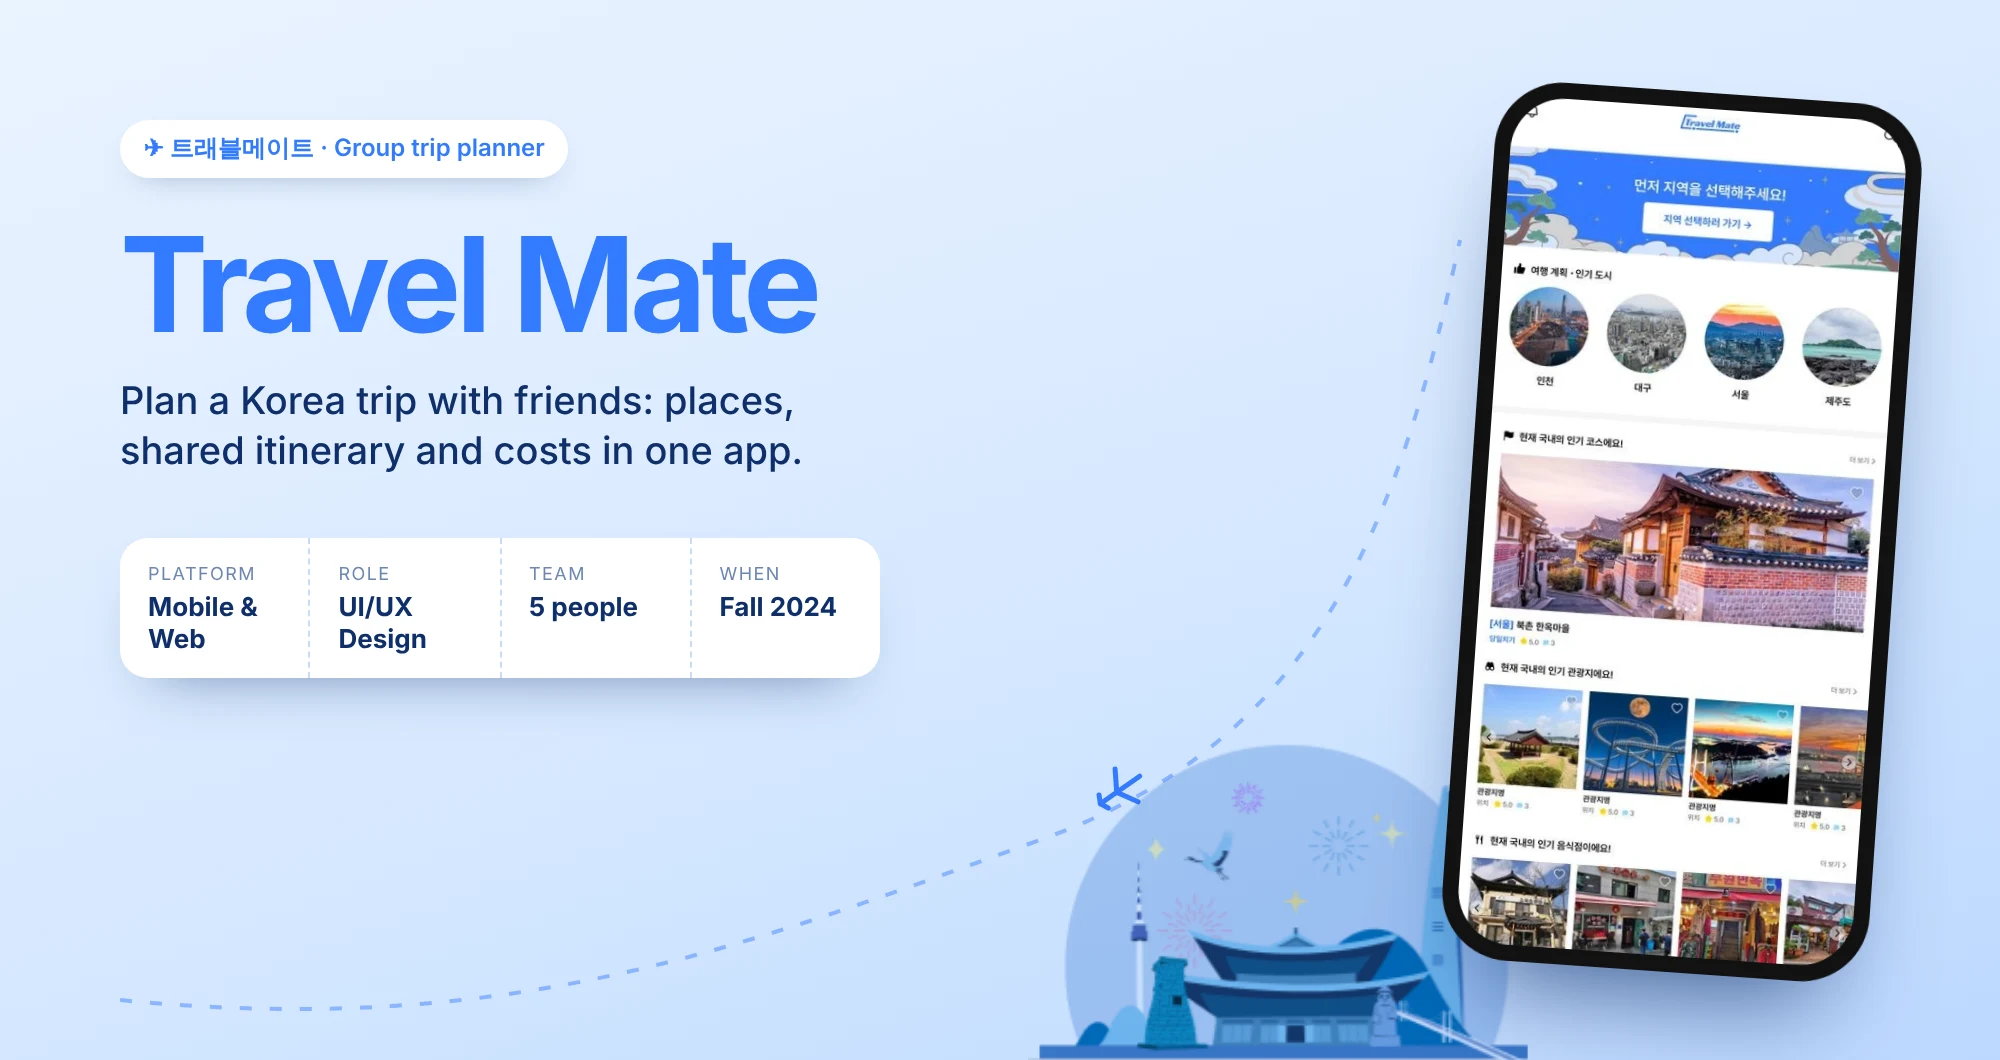
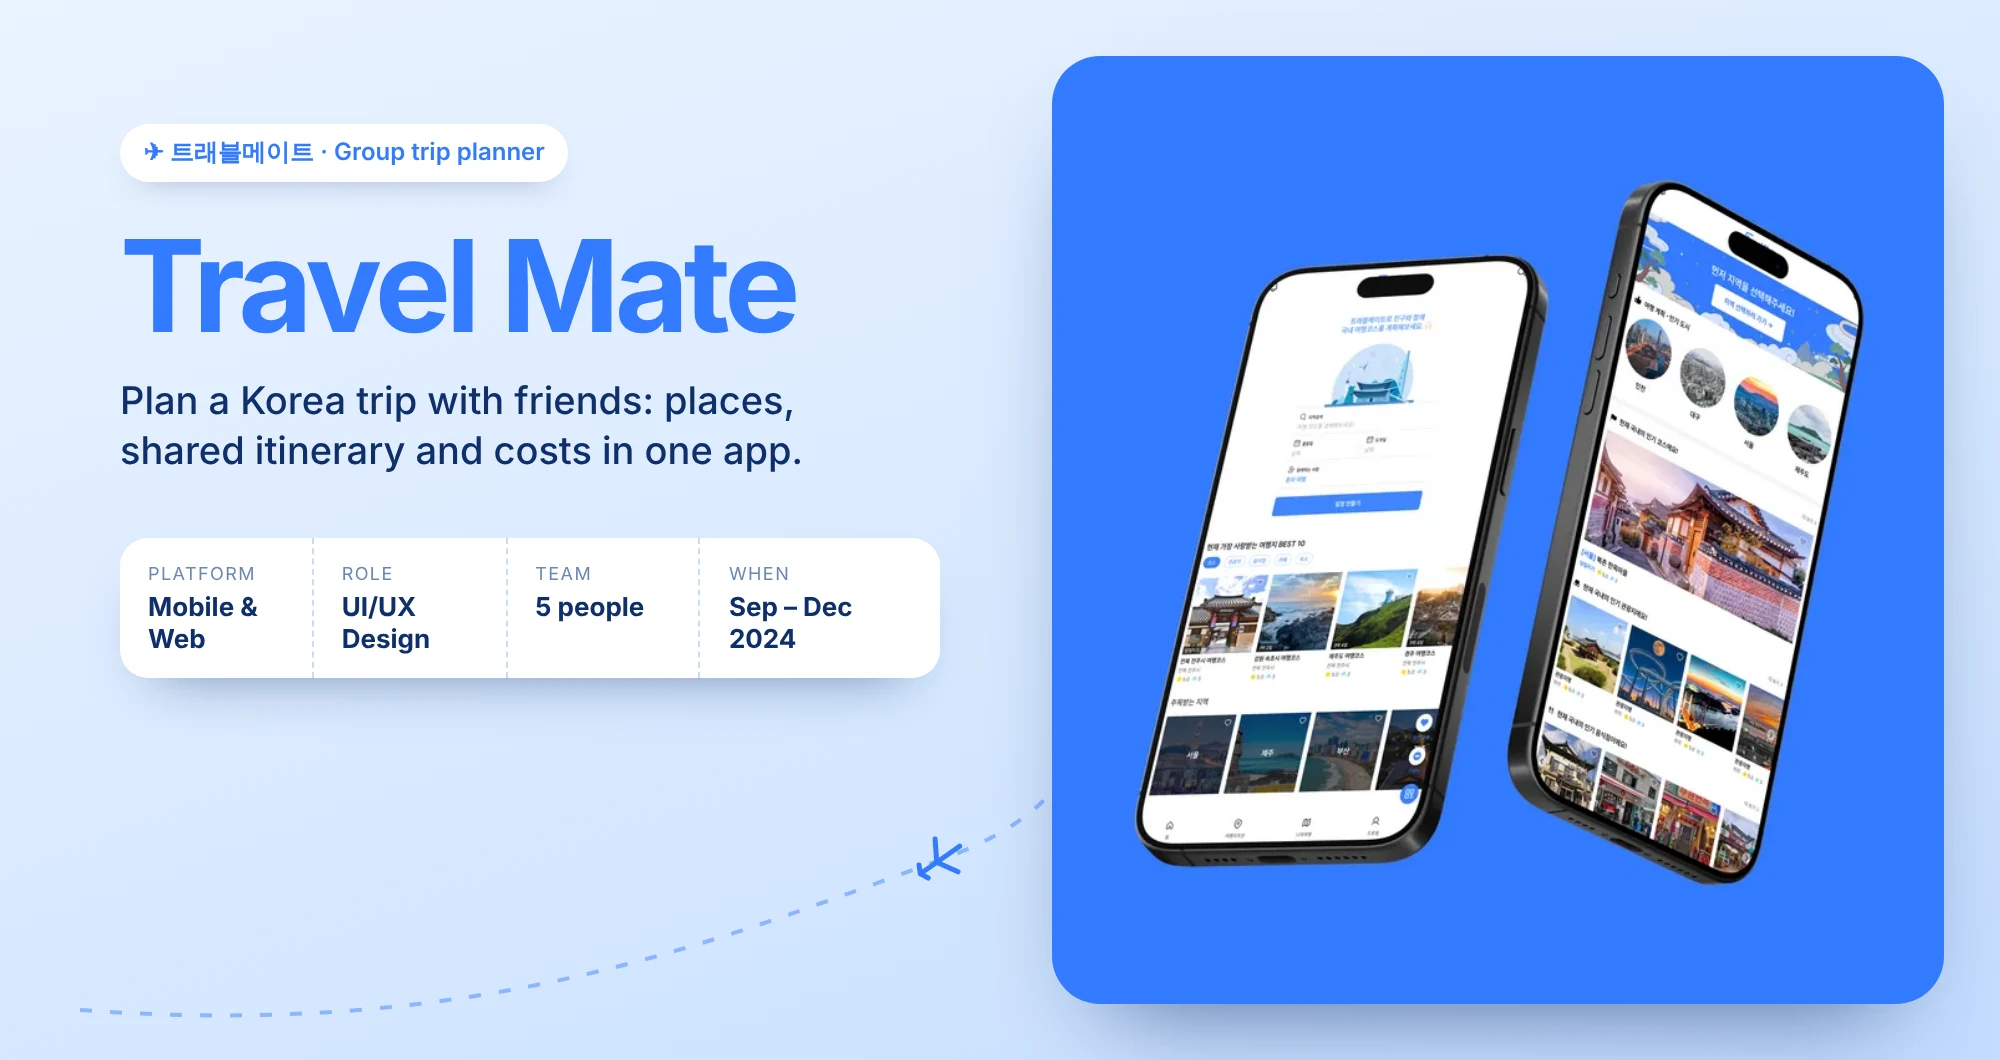
Travel Mate cover keeps original mockup; Trendy dates; Now Institute thumbnail restored
- Travel Mate cover: original two-phone mockup on its blue panel beside the
  Korea-trip text, with the full Sep – Dec 2024 dates.
- Trendy: Jun – Aug 2024 on the case study, UX page and cover image
  ("2024.06 – 2024.08" replacing the open-ended "2024.06.01-").
- Now Institute: back to the original Noto Now screenshot thumbnail.

Claude-Session: https://claude.ai/code/session_01XrSCNk8CdZFL88DQkgrBgR

diff --git a/ux.html b/ux.html
@@ -27,7 +27,7 @@
 <main class="page page-page" id="ux">
 <div class="page-content">
 <header class="cs-head"><h1 class="cs-title">UX Design<span class="dot">.</span></h1><p class="cs-sub">Case studies in research, product design and building, from internships, leadership roles and team projects.</p></header>
-<div class="gproj-list gproj-list--stack"><a class="gproj" href="now-institute.html"><div class="gproj-cover gproj-cover--bleed" style="aspect-ratio:2000/1060"><img alt="Now Institute cover" loading="lazy" onerror="this.hidden=true" src="images/index/cover-now-institute.webp?v=2"/></div><div class="gproj-txt"><span class="gproj-n">(01)</span><h2 class="gproj-t">Now Institute</h2><p class="gproj-sub">Two websites for Morphosis Architects’ urban research wing</p><p class="gproj-d">Designed and vibe-coded Noto Now and the Now Institute site, from research on every project to two live launches.</p><dl class="gproj-meta"><dt>Year</dt><dd>May – Jul 2026</dd><dt>Role</dt><dd>UX Design Intern, Morphosis</dd><dt>Tools</dt><dd>Figma, Claude Code, Vercel</dd></dl><div class="gproj-strip" style="grid-template-columns:178.97fr 177.78fr 166.67fr"><img alt="" loading="lazy" src="images/now-institute/03-screenshot-1778536857657.png" style="aspect-ratio:1.7897"/><img alt="" loading="lazy" src="images/now-institute/02-screenshot-2026-07-13-at-3.52.46pm.webp" style="aspect-ratio:1.7778"/><img alt="" loading="lazy" src="images/now-institute/04-notonow.png" style="aspect-ratio:1.6667"/></div><span class="gproj-go">View case study →</span></div></a><a class="gproj" href="hfes-stg.html"><div class="gproj-cover gproj-cover--bleed" style="aspect-ratio:2000/1000"><img alt="HFES STG cover" loading="lazy" onerror="this.hidden=true" src="images/index/cover-hfes-stg.webp"/></div><div class="gproj-txt"><span class="gproj-n">(02)</span><h2 class="gproj-t">HFES STG</h2><p class="gproj-sub">A website for the Sustainability Technical Group</p><p class="gproj-d">Led a volunteer team from a 200+ member survey through card sorting, testing and launch.</p><dl class="gproj-meta"><dt>Year</dt><dd>Aug 2025 – May 2026</dd><dt>Role</dt><dd>Website Lead</dd><dt>Methods</dt><dd>Survey, card sort, usability tests</dd></dl><div class="gproj-strip" style="grid-template-columns:196.46fr 133.78fr"><img alt="" loading="lazy" src="images/hfes-stg/04-screenshot-2026-03-27-at-3.34.46pm.png" style="aspect-ratio:1.9646"/><img alt="" loading="lazy" src="images/hfes-stg/06-wireframes.png" style="aspect-ratio:1.3378"/></div><span class="gproj-go">View case study →</span></div></a><a class="gproj" href="migrant-compass.html"><div class="gproj-cover gproj-cover--bleed" style="aspect-ratio:1920/940"><img alt="Migrant Compass cover" loading="lazy" onerror="this.hidden=true" src="images/index/05-title-page1.webp"/></div><div class="gproj-txt"><span class="gproj-n">(03)</span><h2 class="gproj-t">Migrant Compass</h2><p class="gproj-sub">Real-time guidance for migrants</p><p class="gproj-d">An offline-ready app giving migrants verified safety updates and resources, built at the IDEA Lab @ Fletcher.</p><dl class="gproj-meta"><dt>Year</dt><dd>Sep – Nov 2025</dd><dt>Role</dt><dd>UX research & design</dd><dt>Tools</dt><dd>Figma</dd></dl><div class="gproj-strip" style="grid-template-columns:50.96fr 51.02fr 51.02fr 45.40fr"><img alt="" loading="lazy" src="images/migrant-compass/06-migrant-compass-mobile-app-wireframe.png" style="aspect-ratio:0.5096"/><img alt="" loading="lazy" src="images/migrant-compass/15-migrant-compass-mobile-app-wireframe.png" style="aspect-ratio:0.5102"/><img alt="" loading="lazy" src="images/migrant-compass/19-w.png" style="aspect-ratio:0.5102"/><img alt="" loading="lazy" src="images/migrant-compass/21-4.png" style="aspect-ratio:0.4540"/></div><span class="gproj-go">View case study →</span></div></a><a class="gproj" href="travel-mate.html"><div class="gproj-cover gproj-cover--bleed" style="aspect-ratio:2000/1060"><img alt="Travel Mate cover" loading="lazy" onerror="this.hidden=true" src="images/index/cover-travel-mate.webp?v=2"/></div><div class="gproj-txt"><span class="gproj-n">(04)</span><h2 class="gproj-t">Travel Mate</h2><p class="gproj-sub">Group travel planning app</p><p class="gproj-d">Search, shared itineraries and expenses for planning a Korea trip with friends, designed with developers.</p><dl class="gproj-meta"><dt>Year</dt><dd>Sep – Dec 2024</dd><dt>Role</dt><dd>UX design, design system</dd><dt>Team</dt><dd>3 designers, 2 developers</dd></dl><div class="gproj-strip" style="grid-template-columns:83.95fr 78.85fr 134.05fr"><img alt="" loading="lazy" src="images/travel-mate/08-ia.png" style="aspect-ratio:0.8395"/><img alt="" loading="lazy" src="images/travel-mate/31-sheet-stay-dates.webp" style="aspect-ratio:0.7885"/><img alt="" loading="lazy" src="images/travel-mate/32-sheet-trip-dates.webp" style="aspect-ratio:1.3405"/></div><span class="gproj-go">View case study →</span></div></a><a class="gproj" href="trendy.html"><div class="gproj-cover gproj-cover--bleed" style="aspect-ratio:1500/734"><img alt="Trendy cover" loading="lazy" onerror="this.hidden=true" src="images/trendy/01-trendy.webp"/></div><div class="gproj-txt"><span class="gproj-n">(05)</span><h2 class="gproj-t">Trendy</h2><p class="gproj-sub">Beauty & fashion trend app</p><p class="gproj-d">A solo project taking a trend-shopping app from interviews and competitor research to brand and UI.</p><dl class="gproj-meta"><dt>Year</dt><dd>Aug 2024</dd><dt>Role</dt><dd>Solo designer</dd><dt>Methods</dt><dd>Interviews, journey map</dd></dl><div class="gproj-strip" style="grid-template-columns:235.78fr 167.52fr"><img alt="" loading="lazy" src="images/trendy/05-persona.webp" style="aspect-ratio:2.3578"/><img alt="" loading="lazy" src="images/trendy/10-final-screens.webp" style="aspect-ratio:1.6752"/></div><span class="gproj-go">View case study →</span></div></a></div>
+<div class="gproj-list gproj-list--stack"><a class="gproj" href="now-institute.html"><div class="gproj-cover gproj-cover--bleed" style="aspect-ratio:2000/1060"><img alt="Now Institute cover" loading="lazy" onerror="this.hidden=true" src="images/index/01-screenshot-2026-07-07-at-2.21.54pm.webp"/></div><div class="gproj-txt"><span class="gproj-n">(01)</span><h2 class="gproj-t">Now Institute</h2><p class="gproj-sub">Two websites for Morphosis Architects’ urban research wing</p><p class="gproj-d">Designed and vibe-coded Noto Now and the Now Institute site, from research on every project to two live launches.</p><dl class="gproj-meta"><dt>Year</dt><dd>May – Jul 2026</dd><dt>Role</dt><dd>UX Design Intern, Morphosis</dd><dt>Tools</dt><dd>Figma, Claude Code, Vercel</dd></dl><div class="gproj-strip" style="grid-template-columns:178.97fr 177.78fr 166.67fr"><img alt="" loading="lazy" src="images/now-institute/03-screenshot-1778536857657.png" style="aspect-ratio:1.7897"/><img alt="" loading="lazy" src="images/now-institute/02-screenshot-2026-07-13-at-3.52.46pm.webp" style="aspect-ratio:1.7778"/><img alt="" loading="lazy" src="images/now-institute/04-notonow.png" style="aspect-ratio:1.6667"/></div><span class="gproj-go">View case study →</span></div></a><a class="gproj" href="hfes-stg.html"><div class="gproj-cover gproj-cover--bleed" style="aspect-ratio:2000/1000"><img alt="HFES STG cover" loading="lazy" onerror="this.hidden=true" src="images/index/cover-hfes-stg.webp"/></div><div class="gproj-txt"><span class="gproj-n">(02)</span><h2 class="gproj-t">HFES STG</h2><p class="gproj-sub">A website for the Sustainability Technical Group</p><p class="gproj-d">Led a volunteer team from a 200+ member survey through card sorting, testing and launch.</p><dl class="gproj-meta"><dt>Year</dt><dd>Aug 2025 – May 2026</dd><dt>Role</dt><dd>Website Lead</dd><dt>Methods</dt><dd>Survey, card sort, usability tests</dd></dl><div class="gproj-strip" style="grid-template-columns:196.46fr 133.78fr"><img alt="" loading="lazy" src="images/hfes-stg/04-screenshot-2026-03-27-at-3.34.46pm.png" style="aspect-ratio:1.9646"/><img alt="" loading="lazy" src="images/hfes-stg/06-wireframes.png" style="aspect-ratio:1.3378"/></div><span class="gproj-go">View case study →</span></div></a><a class="gproj" href="migrant-compass.html"><div class="gproj-cover gproj-cover--bleed" style="aspect-ratio:1920/940"><img alt="Migrant Compass cover" loading="lazy" onerror="this.hidden=true" src="images/index/05-title-page1.webp"/></div><div class="gproj-txt"><span class="gproj-n">(03)</span><h2 class="gproj-t">Migrant Compass</h2><p class="gproj-sub">Real-time guidance for migrants</p><p class="gproj-d">An offline-ready app giving migrants verified safety updates and resources, built at the IDEA Lab @ Fletcher.</p><dl class="gproj-meta"><dt>Year</dt><dd>Sep – Nov 2025</dd><dt>Role</dt><dd>UX research & design</dd><dt>Tools</dt><dd>Figma</dd></dl><div class="gproj-strip" style="grid-template-columns:50.96fr 51.02fr 51.02fr 45.40fr"><img alt="" loading="lazy" src="images/migrant-compass/06-migrant-compass-mobile-app-wireframe.png" style="aspect-ratio:0.5096"/><img alt="" loading="lazy" src="images/migrant-compass/15-migrant-compass-mobile-app-wireframe.png" style="aspect-ratio:0.5102"/><img alt="" loading="lazy" src="images/migrant-compass/19-w.png" style="aspect-ratio:0.5102"/><img alt="" loading="lazy" src="images/migrant-compass/21-4.png" style="aspect-ratio:0.4540"/></div><span class="gproj-go">View case study →</span></div></a><a class="gproj" href="travel-mate.html"><div class="gproj-cover gproj-cover--bleed" style="aspect-ratio:2000/1060"><img alt="Travel Mate cover" loading="lazy" onerror="this.hidden=true" src="images/index/cover-travel-mate.webp?v=3"/></div><div class="gproj-txt"><span class="gproj-n">(04)</span><h2 class="gproj-t">Travel Mate</h2><p class="gproj-sub">Group travel planning app</p><p class="gproj-d">Search, shared itineraries and expenses for planning a Korea trip with friends, designed with developers.</p><dl class="gproj-meta"><dt>Year</dt><dd>Sep – Dec 2024</dd><dt>Role</dt><dd>UX design, design system</dd><dt>Team</dt><dd>3 designers, 2 developers</dd></dl><div class="gproj-strip" style="grid-template-columns:83.95fr 78.85fr 134.05fr"><img alt="" loading="lazy" src="images/travel-mate/08-ia.png" style="aspect-ratio:0.8395"/><img alt="" loading="lazy" src="images/travel-mate/31-sheet-stay-dates.webp" style="aspect-ratio:0.7885"/><img alt="" loading="lazy" src="images/travel-mate/32-sheet-trip-dates.webp" style="aspect-ratio:1.3405"/></div><span class="gproj-go">View case study →</span></div></a><a class="gproj" href="trendy.html"><div class="gproj-cover gproj-cover--bleed" style="aspect-ratio:1500/734"><img alt="Trendy cover" loading="lazy" onerror="this.hidden=true" src="images/trendy/01-trendy.webp?v=2"/></div><div class="gproj-txt"><span class="gproj-n">(05)</span><h2 class="gproj-t">Trendy</h2><p class="gproj-sub">Beauty & fashion trend app</p><p class="gproj-d">A solo project taking a trend-shopping app from interviews and competitor research to brand and UI.</p><dl class="gproj-meta"><dt>Year</dt><dd>Jun – Aug 2024</dd><dt>Role</dt><dd>Solo designer</dd><dt>Methods</dt><dd>Interviews, journey map</dd></dl><div class="gproj-strip" style="grid-template-columns:235.78fr 167.52fr"><img alt="" loading="lazy" src="images/trendy/05-persona.webp" style="aspect-ratio:2.3578"/><img alt="" loading="lazy" src="images/trendy/10-final-screens.webp" style="aspect-ratio:1.6752"/></div><span class="gproj-go">View case study →</span></div></a></div>
 <footer class="site-foot" id="contact">
 <div class="foot-row"><span>Jasmine Kim, UI/UX &amp; Graphic Designer</span>
 <span class="foot-links"><a href="mailto:jasminekim535@gmail.com">Email ↗</a><a href="https://www.linkedin.com/in/jasmine-kim-22838a339/" rel="noopener" target="_blank">LinkedIn ↗</a><a href="https://drive.google.com/file/d/1OOqGdKUFcIr9i4K3hlURFipVqCy_xz__/view?usp=sharing" rel="noopener" target="_blank">Resume ↗</a></span></div>

diff --git a/index.html b/index.html
@@ -32,7 +32,7 @@
 </header>
 <section aria-label="UX case studies" class="rsec" id="work">
 <div class="rsec-head"><h2 class="rsec-title">UX Design</h2><a class="pill" href="ux.html">Take a look</a></div>
-<div class="wkgrid wkgrid--feat"><a class="wk" href="now-institute.html"><div class="wk-img" style="aspect-ratio:2000/1060"><img alt="Now Institute cover" loading="lazy" onerror="this.hidden=true" onload="this.parentNode.style.aspectRatio='auto'" src="images/index/cover-now-institute.webp?v=2"/></div><h3 class="wk-title">Now Institute</h3><p class="wk-sub">Website Design for Morphosis</p><ul class="chips"><li>Vibe Coding</li><li>AI Tools</li><li>Prototyping</li><li>Internship</li></ul></a><a class="wk" href="hfes-stg.html"><div class="wk-img" style="aspect-ratio:2000/999"><img alt="HFES STG cover" loading="lazy" onerror="this.hidden=true" onload="this.parentNode.style.aspectRatio='auto'" src="images/index/cover-hfes-stg.webp"/></div><h3 class="wk-title">HFES STG</h3><p class="wk-sub">A website for the technical group</p><ul class="chips"><li>Leadership</li><li>Non-profit</li><li>Usability Testing</li></ul></a><a class="wk" href="migrant-compass.html"><div class="wk-img" style="aspect-ratio:1920/940"><img alt="Migrant Compass cover" loading="lazy" onerror="this.hidden=true" onload="this.parentNode.style.aspectRatio='auto'" src="images/index/05-title-page1.webp"/></div><h3 class="wk-title">Migrant Compass</h3><p class="wk-sub">Real-time guidance for migrants</p><ul class="chips"><li>Problem-solving</li><li>Teamwork</li></ul></a><a class="wk" href="travel-mate.html"><div class="wk-img" style="aspect-ratio:1500/739"><img alt="Travel Mate cover" loading="lazy" onerror="this.hidden=true" onload="this.parentNode.style.aspectRatio='auto'" src="images/index/cover-travel-mate.webp?v=2"/></div><h3 class="wk-title">Travel Mate</h3><p class="wk-sub">Group travel planning app</p><ul class="chips"><li>App Design</li><li>Cross-functional Teamwork</li></ul></a><a class="wk" href="trendy.html"><div class="wk-img" style="aspect-ratio:1500/734"><img alt="Trendy cover" loading="lazy" onerror="this.hidden=true" onload="this.parentNode.style.aspectRatio='auto'" src="images/trendy/01-trendy.webp"/></div><h3 class="wk-title">Trendy</h3><p class="wk-sub">Beauty &amp; fashion trend app</p><ul class="chips"><li>App Design</li><li>Logo Design</li><li>User Research</li></ul></a></div>
+<div class="wkgrid wkgrid--feat"><a class="wk" href="now-institute.html"><div class="wk-img" style="aspect-ratio:2000/1060"><img alt="Now Institute cover" loading="lazy" onerror="this.hidden=true" onload="this.parentNode.style.aspectRatio='auto'" src="images/index/01-screenshot-2026-07-07-at-2.21.54pm.webp"/></div><h3 class="wk-title">Now Institute</h3><p class="wk-sub">Website Design for Morphosis</p><ul class="chips"><li>Vibe Coding</li><li>AI Tools</li><li>Prototyping</li><li>Internship</li></ul></a><a class="wk" href="hfes-stg.html"><div class="wk-img" style="aspect-ratio:2000/999"><img alt="HFES STG cover" loading="lazy" onerror="this.hidden=true" onload="this.parentNode.style.aspectRatio='auto'" src="images/index/cover-hfes-stg.webp"/></div><h3 class="wk-title">HFES STG</h3><p class="wk-sub">A website for the technical group</p><ul class="chips"><li>Leadership</li><li>Non-profit</li><li>Usability Testing</li></ul></a><a class="wk" href="migrant-compass.html"><div class="wk-img" style="aspect-ratio:1920/940"><img alt="Migrant Compass cover" loading="lazy" onerror="this.hidden=true" onload="this.parentNode.style.aspectRatio='auto'" src="images/index/05-title-page1.webp"/></div><h3 class="wk-title">Migrant Compass</h3><p class="wk-sub">Real-time guidance for migrants</p><ul class="chips"><li>Problem-solving</li><li>Teamwork</li></ul></a><a class="wk" href="travel-mate.html"><div class="wk-img" style="aspect-ratio:1500/739"><img alt="Travel Mate cover" loading="lazy" onerror="this.hidden=true" onload="this.parentNode.style.aspectRatio='auto'" src="images/index/cover-travel-mate.webp?v=3"/></div><h3 class="wk-title">Travel Mate</h3><p class="wk-sub">Group travel planning app</p><ul class="chips"><li>App Design</li><li>Cross-functional Teamwork</li></ul></a><a class="wk" href="trendy.html"><div class="wk-img" style="aspect-ratio:1500/734"><img alt="Trendy cover" loading="lazy" onerror="this.hidden=true" onload="this.parentNode.style.aspectRatio='auto'" src="images/trendy/01-trendy.webp?v=2"/></div><h3 class="wk-title">Trendy</h3><p class="wk-sub">Beauty &amp; fashion trend app</p><ul class="chips"><li>App Design</li><li>Logo Design</li><li>User Research</li></ul></a></div>
 </section>
 <section aria-label="Graphic and art" class="rsec" id="designs">
 <div class="rsec-head"><h2 class="rsec-title">Graphic &amp; Art</h2><a class="pill" href="designs.html">Take a look</a></div>

diff --git a/trendy.html b/trendy.html
@@ -26,7 +26,7 @@
 </header>
 <main class="page page-project" id="trendy">
 <div class="page-content">
-<nav aria-label="Breadcrumb" class="crumb"><a href="ux.html">← UX Design</a> / Trendy</nav><header class="cs-head"><h1 class="cs-title">Trendy<span class="dot">.</span></h1><p class="cs-sub">Beauty &amp; fashion trend app</p><ul class="chips"><li>User Research</li><li>App Design</li><li>Branding</li></ul></header><div class="hf-hero"><figure class="fg"><div class="fg-box" style="aspect-ratio:1500/734; max-width:1500px; margin-inline:auto"><img alt="Trendy app" loading="lazy" onerror="this.hidden=true" src="images/trendy/01-trendy.webp"/></div></figure></div><dl class="cs-meta"><div><dt>Role</dt><dd>Solo designer: research, brand and mobile UI</dd></div><div><dt>Timeline</dt><dd>August 2024</dd></div><div><dt>Credit</dt><dd>Individual project</dd></div></dl><p class="ni-lede">Trendy curates the latest beauty and fashion products in one place, so young women can discover trends, find inspiration and shop in a single app.</p><div class="hmw"><div><span class="csr-k">Problem</span><p>Keeping up with trends takes hours of searching across many platforms.</p></div><div class="hmw-q"><span class="csr-k">How might we</span><p>make discovering and shopping trends fast and enjoyable?</p></div></div><section class="ni-sec"><h2 class="ni-h">My role</h2>
+<nav aria-label="Breadcrumb" class="crumb"><a href="ux.html">← UX Design</a> / Trendy</nav><header class="cs-head"><h1 class="cs-title">Trendy<span class="dot">.</span></h1><p class="cs-sub">Beauty &amp; fashion trend app</p><ul class="chips"><li>User Research</li><li>App Design</li><li>Branding</li></ul></header><div class="hf-hero"><figure class="fg"><div class="fg-box" style="aspect-ratio:1500/734; max-width:1500px; margin-inline:auto"><img alt="Trendy app" loading="lazy" onerror="this.hidden=true" src="images/trendy/01-trendy.webp?v=2"/></div></figure></div><dl class="cs-meta"><div><dt>Role</dt><dd>Solo designer: research, brand and mobile UI</dd></div><div><dt>Timeline</dt><dd>Jun – Aug 2024</dd></div><div><dt>Credit</dt><dd>Individual project</dd></div></dl><p class="ni-lede">Trendy curates the latest beauty and fashion products in one place, so young women can discover trends, find inspiration and shop in a single app.</p><div class="hmw"><div><span class="csr-k">Problem</span><p>Keeping up with trends takes hours of searching across many platforms.</p></div><div class="hmw-q"><span class="csr-k">How might we</span><p>make discovering and shopping trends fast and enjoyable?</p></div></div><section class="ni-sec"><h2 class="ni-h">My role</h2>
 <p class="ni-note">A solo project: I took Trendy from problem to finished interface.</p>
 <div class="tk tk--4">
 <div><span class="step-n">01</span><h3>Research</h3><p>User interviews, competitor analysis and a journey map.</p></div>

diff --git a/images/MANIFEST.md b/images/MANIFEST.md
@@ -9,9 +9,8 @@ Until a file exists, the page shows a blank placeholder box at the correct size.
 
 | Path | Original file | Size (px) |
 |---|---|---|
-| `images/index/cover-now-institute.webp` | composed cover (Noto Now hero photo, both sites) | 2000×1060 |
 | `images/index/cover-hfes-stg.webp` | composed cover (desktop + mobile site) | 2000×1000 |
-| `images/index/cover-travel-mate.webp` | composed cover (Korea trip theme, home screen, Seoul illustration) | 2000×1060 |
+| `images/index/cover-travel-mate.webp` | composed cover (Korea trip theme, original two-phone mockup) | 2000×1060 |
 | `images/index/01-screenshot-2026-07-07-at-2.21.54pm.png` | Screenshot-2026-07-07-at-2.21.54PM.png | 3024×1602 |
 | `images/index/02-screenshot-2026-03-27-at-3.55.09pm.png` | Screenshot-2026-03-27-at-3.55.09PM.png | 2994×1496 |
 | `images/index/03-title-page.png` | title_page.png | 1920×940 |
